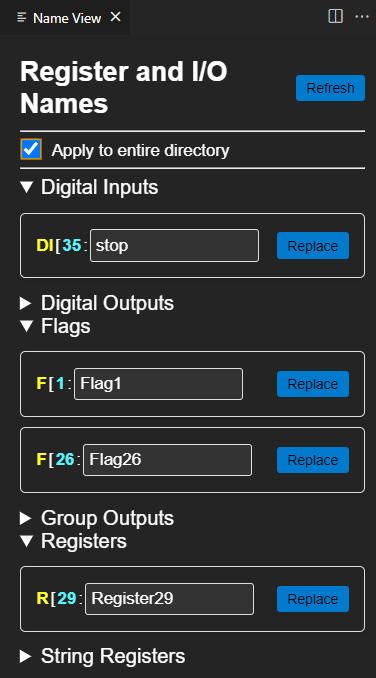
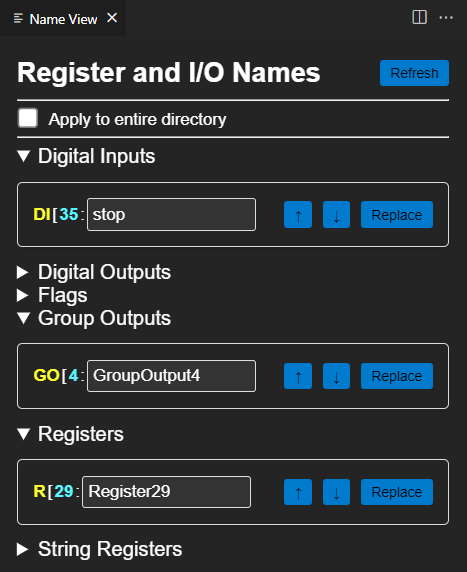
version, readme, name webview image

diff --git a/src/extension.ts b/src/extension.ts
@@ -5,7 +5,7 @@ import * as path from 'path';
 // GLOBAL VARIABLES
 let globalGroupState: { [key: string]: boolean } = {};
 // fileDict 1 entry per document
-// start line,  end line,  line edits enabled,  total lines,  edit lines, labels, jumps
+// start line,  end line,  line edits enabled,  total lines,  edit lines
 let fileDict: { [fileName: string]: [number, number, boolean, number, number] } = {};
 
 // Panels for webviews
@@ -436,12 +436,14 @@ async function updateLineNumbers(document: vscode.TextDocument) {
         //console.log('updt: DONE Applying edits: isAutoUpd = ' + isAutoUpd);
 
         // move the cursor to the normal TP start column
-        let column = 7; 
-        if (movedPosition) {
-            column = 5;
+        if (totalLines > processedLines) {
+            let column = 7; 
+            if (movedPosition) {
+                column = 5;
+            }
+            const position = new vscode.Position(lineNumber-1, column);
+            editor.selection = new vscode.Selection(position, position);
         }
-        const position = new vscode.Position(lineNumber-1, column);
-        editor.selection = new vscode.Selection(position, position);
 
     }
     // If no line diff return
@@ -1060,8 +1062,6 @@ const keyToString: { [key: string]: string } = {
 
 // Function to generate the HTML content for the Name Webview
 function getNameWebContent(document: vscode.TextDocument, groupedNames: { [type: string]: { item: string, name: string, lines: number[] }[] }, groupState: { [key: string]: boolean }): string {
-
-    // Get the file name of the document
     const fileName = path.basename(document.fileName);
     if (!(fileName in fileDict)) {
          return `<!DOCTYPE html>

diff --git a/out/extension.js b/out/extension.js
@@ -39,7 +39,7 @@ const path = __importStar(require("path"));
 // GLOBAL VARIABLES
 let globalGroupState = {};
 // fileDict 1 entry per document
-// start line,  end line,  line edits enabled,  total lines,  edit lines, labels, jumps
+// start line,  end line,  line edits enabled,  total lines,  edit lines
 let fileDict = {};
 // Panels for webviews
 let labelPanel;
@@ -396,12 +396,14 @@ function updateLineNumbers(document) {
             isAutoUpd = false;
             //console.log('updt: DONE Applying edits: isAutoUpd = ' + isAutoUpd);
             // move the cursor to the normal TP start column
-            let column = 7;
-            if (movedPosition) {
-                column = 5;
+            if (totalLines > processedLines) {
+                let column = 7;
+                if (movedPosition) {
+                    column = 5;
+                }
+                const position = new vscode.Position(lineNumber - 1, column);
+                editor.selection = new vscode.Selection(position, position);
             }
-            const position = new vscode.Position(lineNumber - 1, column);
-            editor.selection = new vscode.Selection(position, position);
         }
         // If no line diff return
         else {
@@ -948,7 +950,6 @@ const keyToString = {
 };
 // Function to generate the HTML content for the Name Webview
 function getNameWebContent(document, groupedNames, groupState) {
-    // Get the file name of the document
     const fileName = path.basename(document.fileName);
     if (!(fileName in fileDict)) {
         return `<!DOCTYPE html>

diff --git a/out/state.js b/out/state.js
@@ -1,0 +1,2 @@
+"use strict";
+//# sourceMappingURL=state.js.map

diff --git a/README.md b/README.md
@@ -7,7 +7,7 @@ This extension is to assist in software development that includes Fanuc propriet
 - **Automatic Line Renumbering**: Automatically renumbers in-text lines in .ls files when changes are made.
 - **Automatic Semicolon Placement**: Automatically ends in-text lines in .ls files with a semicolon.
 - **Label Webview Command**: View all the Labels and Jump Labels in your code and move to the line number.
-- **Register & I/O Webview Command**: View all of the LS file data types and I/O in your active file. Adds button to replace name in the active file, or all in directory.  
+- **Register & I/O Webview Command**: View all of the LS file data types and I/O in your active file. Adds button to replace name in the active file, or all in directory. Jump to line in code of each item with arrow buttons.   
 - **CodeFanuc Theme**: Custom theme for LS, KL, DT, and CF filetypes.
 
 <div align="center">

diff --git a/CHANGELOG.md b/CHANGELOG.md
@@ -7,6 +7,7 @@
 ### Changed
 - Highlight decorator jumping to lines quickly no longer lags
 - Rename in directory saves and doesn't open files
+- Cursor no longer moves on line deletion
 
 
 ## [1.0.2] - 2025-04-02
